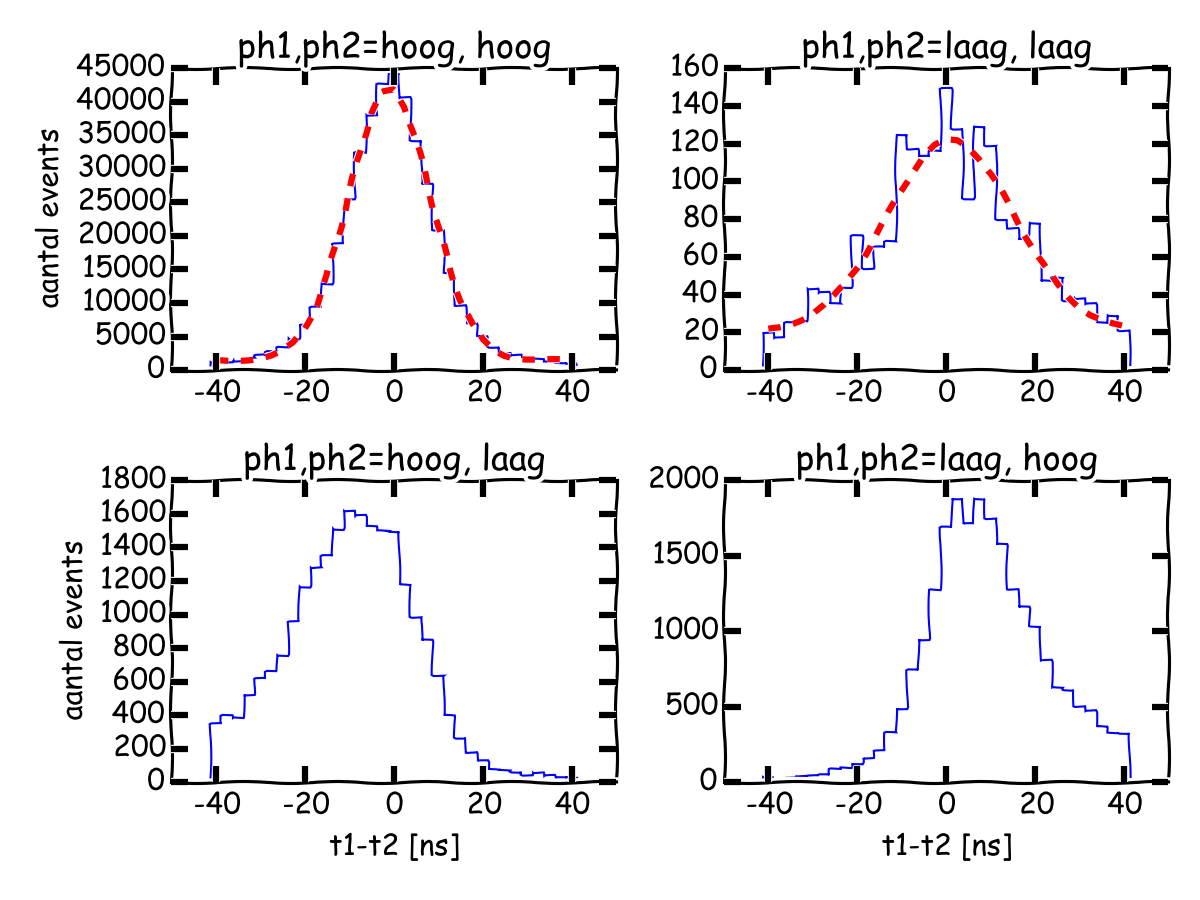
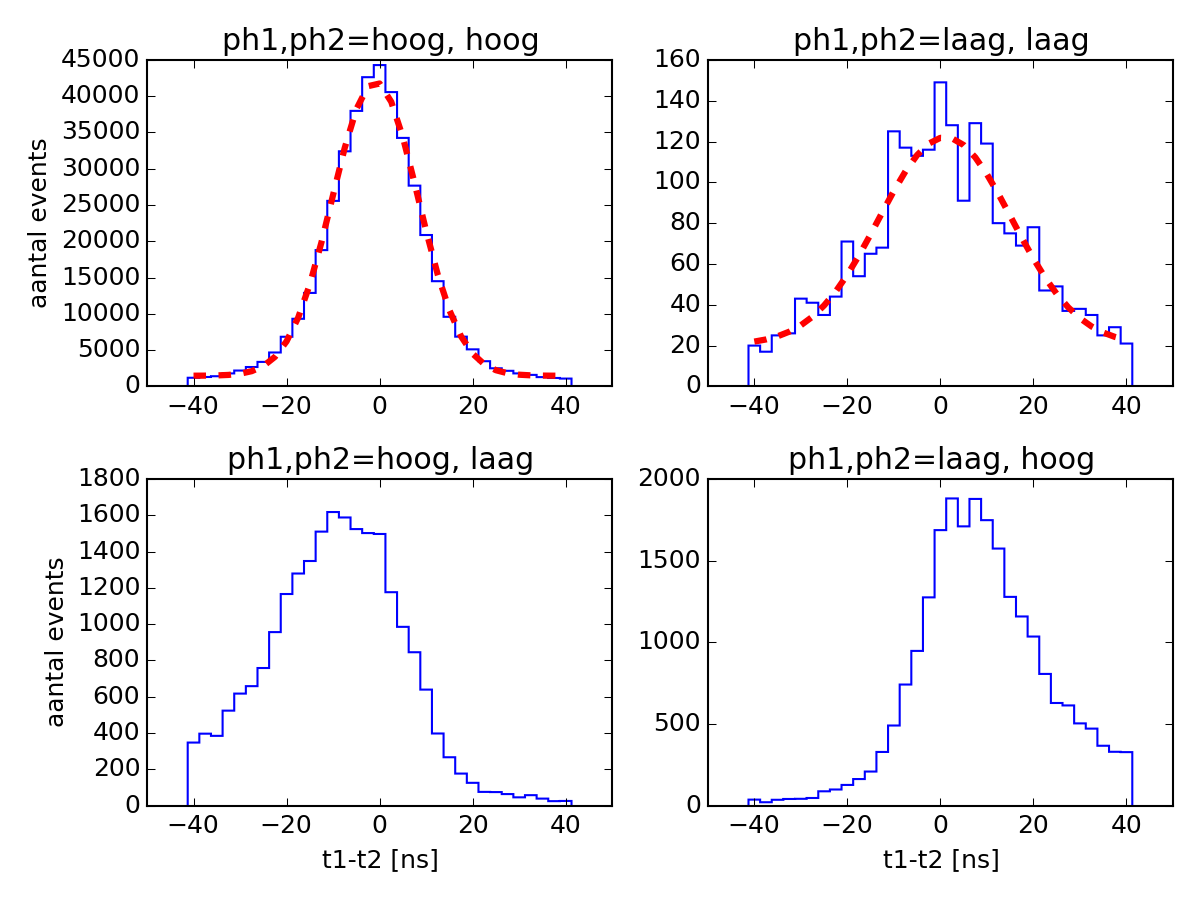
pennink plots from corsika data

diff --git a/pennink_figures/s501_april_2010_VIER_PLOTS_CORSIKA.py b/pennink_figures/s501_april_2010_VIER_PLOTS_CORSIKA.py
@@ -24,8 +24,10 @@ STATION = 501
 STATIONS = [STATION]
 START = datetime.datetime(2010, 4, 1)
 END = datetime.datetime(2010, 5, 1)
-FILENAME = 'station_501_april2010.h5'
+#FILENAME = 'station_501_april2010.h5'
+FILENAME = 'gamma_outside_core.h5'
 
+MIP = 380  # ADC   1.0 MIP = 380 ADC
 #
 # Pennink, 2010 p32 specifies these cutoff ADC counts
 # >200 ADC count = charged particle
@@ -33,7 +35,7 @@ FILENAME = 'station_501_april2010.h5'
 # These values are consistent with a pulseheight histogram
 #
 HIGH_PH = 200
-LOW_PH = 120
+LOW_PH = 1000
 
 
 #
@@ -66,18 +68,24 @@ def do_it():
     else:
         print "data already in globals."
 
-    events = data.root.s501.events
+    #events = data.root.s501.events
+    events = data.root.cluster_simulations.station_0.events
 
     t1 = events.col('t1')
     t2 = events.col('t2')
     t3 = events.col('t3')
     t4 = events.col('t4')
 
-    ph = events.col('pulseheights')
-    ph1 = ph[:, 0]
-    ph2 = ph[:, 1]
-    ph3 = ph[:, 2]
-    ph4 = ph[:, 3]
+    n1 = events.col('n1')
+    n2 = events.col('n2')
+    n3 = events.col('n3')
+    n4 = events.col('n4')
+
+    ph1 = n1 * MIP
+    ph2 = n2 * MIP
+    ph3 = n3 * MIP
+    ph4 = n4 * MIP
+
 
     bins2ns5 = np.arange(-41.25, 41.26, 2.5)
 
@@ -112,9 +120,9 @@ def do_it():
         grafiek11.set_ylabel('aantal events')
 
 
-    if grafiek12:  # bovenste rij, laag laag met fit
+    if not grafiek12:  # bovenste rij, laag laag met fit
         print "ph1 laag, ph2 laag", dt_t1laag_t2laag.size
-        n1, bins1, blaat1 = grafiek12.hist(dt_t1laag_t2laag, bins=bins2ns5, histtype='step')
+        n1, bins1, blaat1 = grafiek12.hist([0], bins=bins2ns5, histtype='step')
 
         sigma_list = np.sqrt(n1)
 
@@ -145,7 +153,7 @@ def do_it():
 
 
     plt.tight_layout()
-    grafiek.savefig('pennink4plots.png', dpi=150)
+    grafiek.savefig('pennink4plots-corsika_data.png', dpi=150)
     grafiek.show()
 
 
